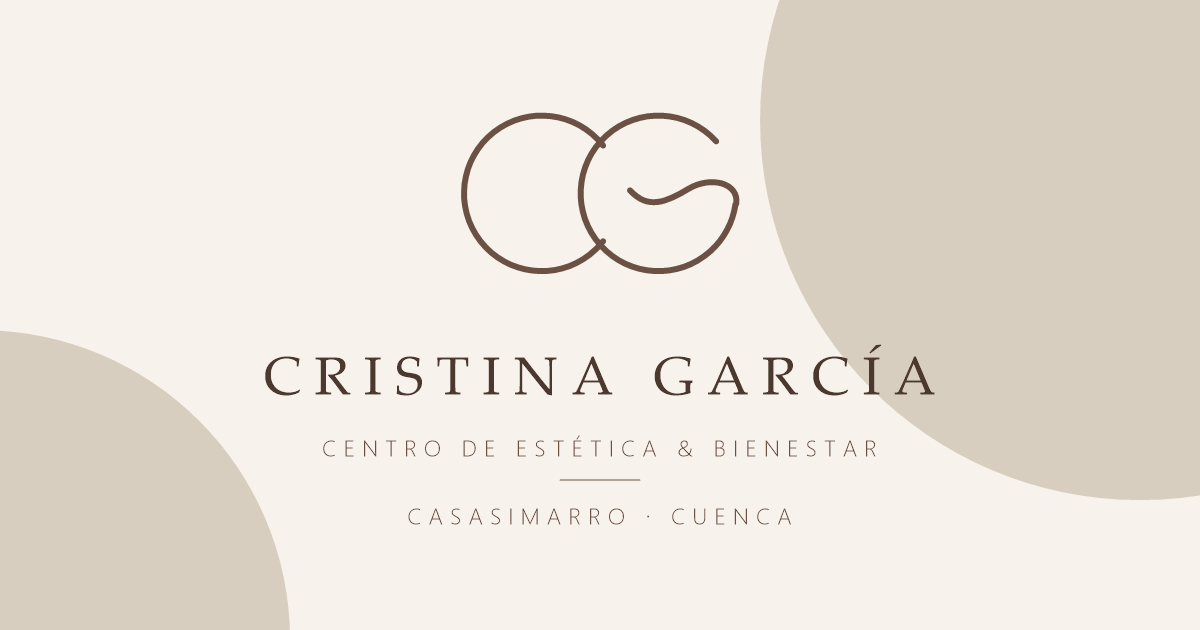
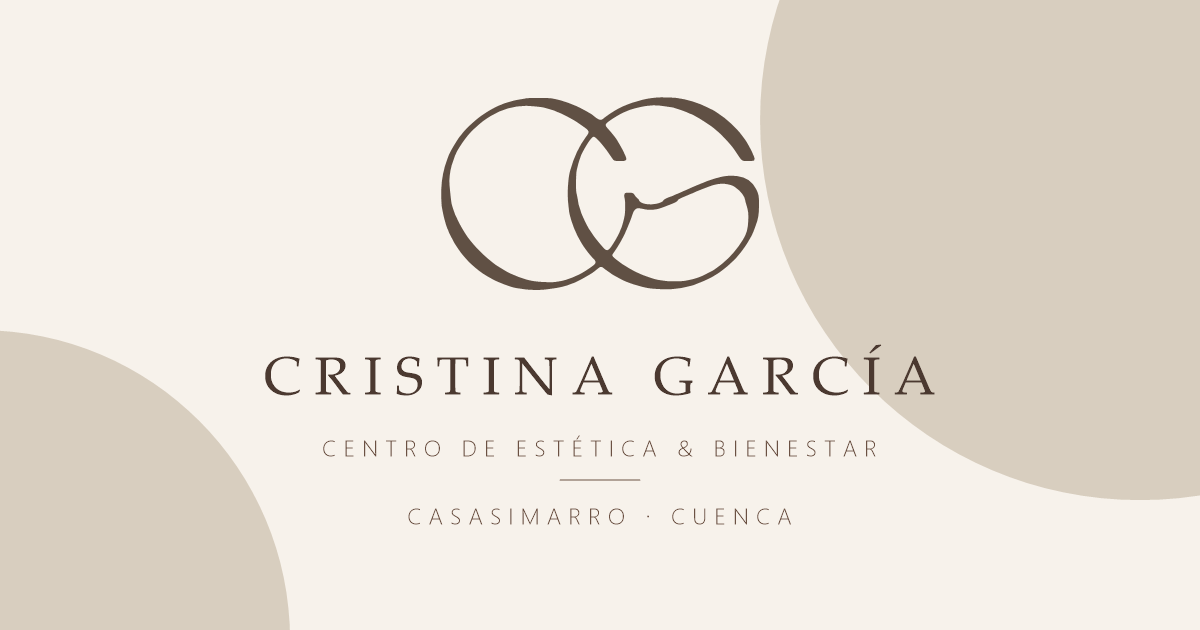
Cambia al logotipo oficial CG (serigrafía)
Sustituye el monograma redibujado por el oficial en todas las páginas,
el favicon, logo.svg (marrón) y logo-negro.svg, y regenera el icono del
móvil y la imagen para compartir.

Changed region(s): [[0.37, 0.1508, 0.6475, 0.4825]]

diff --git a/aviso-legal.html b/aviso-legal.html
@@ -16,7 +16,7 @@
   <header class="cabecera cabecera--simple">
     <div class="contenedor cabecera__fila">
       <a class="marca" href="index.html" aria-label="Cristina García, Centro de Estética y Bienestar: volver a la web">
-        <svg class="monograma" viewBox="0 0 214 130" aria-hidden="true"><path d="M109 33A52 52 0 1 0 109 97"/><path d="M184.6 30.2A52 52 0 1 0 197.5 72.2C199.5 58 181 53 166 62S139 76 127 63"/></svg>
+        <svg class="monograma" viewBox="205 391 1327 808" aria-hidden="true"><path fill-rule="evenodd" d="M579.5,1194.0C570.7,1193.5 560.4,1192.6 556.5,1192.0C552.6,1191.5 543.2,1190.1 535.5,1189.0C527.8,1187.9 519.0,1186.5 516.0,1185.9C494.6,1181.7 445.9,1163.2 422.5,1150.4C390.0,1132.7 371.6,1120.3 350.5,1102.1C326.1,1081.1 328.0,1083.0 301.7,1053.0C289.4,1038.9 267.2,1006.6 260.6,993.0C258.3,988.3 253.2,978.6 249.3,971.5C245.4,964.4 241.7,956.5 241.0,954.0C240.3,951.6 238.1,946.1 235.9,941.8C233.8,937.5 230.5,928.5 228.6,921.8C226.8,915.0 224.1,905.5 222.7,900.5C220.5,892.6 216.7,874.5 212.4,851.5C210.4,840.5 209.1,800.0 210.0,775.0C211.5,733.6 220.0,691.1 234.0,655.0C236.7,648.1 239.2,641.1 239.6,639.5C242.4,628.3 272.9,576.1 287.4,557.9C290.8,553.7 296.1,546.9 299.3,542.7C314.8,522.6 362.4,479.9 384.0,466.7C387.6,464.5 394.3,460.1 399.0,457.0C412.9,447.7 443.5,431.5 453.6,428.2C456.8,427.1 462.6,424.8 466.5,423.1C470.4,421.3 480.0,418.1 488.0,415.9C496.0,413.8 506.2,410.9 510.7,409.6C515.2,408.2 526.4,405.9 535.7,404.5C544.9,403.1 556.1,401.2 560.5,400.3C573.1,397.7 654.3,397.7 668.5,400.4C686.2,403.7 707.3,408.7 714.2,411.3C717.8,412.7 724.4,414.8 728.7,416.0C733.0,417.2 740.8,420.1 746.0,422.5C751.2,424.8 758.0,427.5 761.0,428.4C767.3,430.2 799.3,446.1 812.0,453.7C816.7,456.5 823.5,460.4 827.1,462.4C830.7,464.3 835.9,467.9 838.6,470.3C859.9,489.1 871.7,493.5 879.7,485.9C884.5,481.3 904.8,466.5 914.1,460.8C917.9,458.4 924.5,454.3 928.8,451.6C966.4,427.6 1034.6,404.3 1083.0,399.0C1088.2,398.5 1097.0,397.5 1102.5,396.9C1115.7,395.4 1168.2,396.4 1185.3,398.4C1228.5,403.7 1278.1,419.0 1316.3,438.8C1323.9,442.8 1330.7,446.0 1331.4,446.0C1332.1,446.0 1336.3,448.3 1340.6,451.1C1345.0,453.9 1352.4,458.8 1357.3,461.9C1393.4,485.1 1433.7,522.4 1456.7,554.0C1459.3,557.6 1463.5,563.0 1466.0,566.0C1470.3,571.3 1472.7,575.1 1483.6,594.0C1490.7,606.3 1498.9,622.3 1500.5,627.1C1501.4,629.4 1503.7,634.5 1505.7,638.4C1510.2,647.2 1510.7,653.7 1507.2,657.2C1505.0,659.4 1504.2,659.5 1485.2,659.8C1455.2,660.3 1458.0,662.0 1436.5,629.6C1428.1,616.9 1419.1,604.0 1416.4,600.9C1413.7,597.8 1409.3,592.6 1406.7,589.4C1396.0,576.6 1369.0,548.4 1361.4,542.1C1356.9,538.5 1349.5,532.1 1344.9,527.9C1332.5,516.6 1291.1,489.0 1268.0,476.6C1262.8,473.7 1257.3,470.7 1255.9,469.7C1254.5,468.8 1250.2,466.9 1246.4,465.6C1242.6,464.3 1237.6,462.3 1235.4,461.2C1227.3,457.1 1206.3,449.2 1191.0,444.5C1182.5,441.9 1174.7,439.4 1173.7,438.8C1172.7,438.3 1166.9,437.3 1160.7,436.5C1154.5,435.7 1144.1,434.2 1137.5,433.1C1101.2,426.9 1078.2,427.5 1038.0,435.6C1016.2,440.0 995.0,446.0 984.5,450.7C980.1,452.6 972.5,455.9 967.5,458.0C953.1,464.0 923.1,481.9 906.3,494.4C887.1,508.7 887.0,510.3 904.9,530.3C917.8,544.8 935.2,566.7 938.7,572.9C940.2,575.4 945.6,584.7 950.9,593.5C956.1,602.3 962.5,614.2 965.1,620.0C967.6,625.8 971.4,634.0 973.4,638.2C982.4,657.3 977.2,661.4 945.5,660.1C926.5,659.3 925.2,658.8 919.0,649.1C890.0,604.4 851.5,559.0 842.5,559.0C834.8,559.0 819.6,579.5 799.5,617.0C796.2,623.3 792.7,629.6 791.8,631.0C790.9,632.4 789.5,636.2 788.5,639.5C787.6,642.8 785.6,649.0 784.0,653.2C779.2,665.6 772.0,693.3 770.3,705.3C768.6,718.2 768.2,781.3 769.8,789.0C774.9,812.8 776.0,818.4 776.6,824.0C777.5,833.3 780.3,845.0 784.3,856.0C786.2,861.2 788.3,868.0 789.0,871.0C791.4,881.5 817.0,934.1 825.2,945.5C826.8,947.7 831.6,954.9 835.9,961.5C850.1,983.3 882.6,1022.1 891.7,1028.1C899.7,1033.4 908.8,1026.3 921.7,1004.5C923.4,1001.7 927.5,995.0 931.0,989.5C937.7,978.7 948.9,957.0 951.0,950.6C951.7,948.4 953.8,943.4 955.6,939.3C960.7,928.3 968.7,898.5 970.7,883.5C973.1,865.6 973.0,826.8 970.5,816.0C965.4,793.6 968.7,790.0 992.5,791.2C1004.4,791.8 1007.2,793.4 1012.6,802.3C1015.2,806.7 1018.8,810.9 1022.8,814.1C1027.4,817.8 1029.2,820.0 1030.1,823.1C1032.1,829.6 1042.2,835.1 1058.5,838.5C1083.7,843.7 1125.5,835.0 1131.2,823.3C1133.4,818.8 1145.8,812.5 1164.1,806.5C1167.1,805.5 1172.2,803.4 1175.4,801.8C1178.6,800.1 1185.3,797.3 1190.2,795.4C1195.1,793.5 1202.4,790.4 1206.3,788.4C1210.3,786.4 1216.4,783.7 1220.0,782.4C1223.6,781.0 1230.1,778.2 1234.5,776.0C1244.4,771.1 1275.0,758.1 1288.5,753.0C1294.0,751.0 1301.2,748.0 1304.5,746.5C1313.1,742.6 1343.4,732.4 1350.5,731.0C1353.8,730.4 1360.8,728.5 1366.0,726.9C1384.9,721.2 1414.0,719.4 1438.0,722.5C1474.3,727.1 1500.1,745.1 1516.0,777.0C1526.1,797.3 1527.4,804.8 1527.4,843.0C1527.4,881.2 1524.5,898.9 1513.5,928.5C1510.4,936.8 1506.2,948.0 1504.1,953.5C1502.1,959.0 1497.5,968.7 1493.8,975.0C1490.2,981.3 1485.3,989.9 1483.0,994.0C1468.4,1019.5 1435.6,1061.3 1418.6,1076.0C1415.8,1078.4 1409.0,1084.7 1403.5,1090.0C1392.9,1100.1 1366.8,1120.1 1353.5,1128.4C1349.1,1131.1 1342.8,1135.0 1339.5,1137.0C1328.2,1144.0 1301.5,1156.8 1285.5,1163.0C1276.7,1166.4 1266.1,1170.6 1262.0,1172.2C1257.9,1173.9 1251.8,1175.9 1248.5,1176.7C1245.2,1177.5 1237.8,1179.3 1232.0,1180.7C1206.6,1186.9 1204.8,1187.2 1166.0,1191.2C1147.0,1193.1 1098.3,1191.2 1071.5,1187.5C1037.7,1182.7 974.1,1162.3 954.4,1149.8C952.2,1148.4 946.6,1145.3 941.9,1143.0C931.4,1137.8 916.7,1128.9 908.7,1122.9C905.3,1120.4 899.1,1116.1 895.0,1113.3C890.8,1110.5 886.8,1107.4 886.0,1106.5C882.7,1102.5 876.7,1099.0 873.1,1099.0C867.5,1099.0 867.3,1099.1 844.0,1118.4C830.0,1129.9 769.9,1163.1 757.0,1166.5C753.8,1167.3 747.7,1169.6 743.4,1171.6C730.1,1177.7 696.2,1186.0 674.7,1188.5C667.4,1189.4 655.4,1191.0 648.0,1192.1C632.1,1194.5 603.6,1195.3 579.5,1194.0ZM687.0,1161.0C689.5,1160.5 696.1,1159.4 701.6,1158.5C730.5,1154.0 776.5,1135.7 804.2,1117.8C848.6,1089.1 853.3,1084.4 848.0,1073.6C846.8,1071.0 845.0,1068.5 844.0,1068.0C842.0,1066.9 825.6,1048.5 820.0,1041.0C818.1,1038.4 813.1,1031.9 809.0,1026.6C785.4,995.8 760.7,946.5 749.5,907.5C742.7,884.1 740.8,876.0 739.9,867.7C739.4,862.7 738.3,853.6 737.5,847.5C733.4,817.9 733.2,775.5 737.0,743.5C740.2,715.7 740.4,714.6 745.4,696.2C759.4,644.5 781.2,598.2 809.2,560.8C826.6,537.4 826.2,536.1 794.4,514.0C787.7,509.3 778.5,502.8 773.9,499.6C760.8,490.1 711.2,464.0 696.0,458.6C691.9,457.1 687.1,455.1 685.4,454.1C680.2,451.0 645.6,440.5 630.8,437.5C619.9,435.3 574.1,431.0 561.5,431.0C510.3,431.1 459.6,445.8 415.0,473.4C384.5,492.4 381.2,494.9 345.6,526.9C330.3,540.7 312.0,562.5 297.0,585.0C293.5,590.2 288.5,597.6 286.0,601.5C257.7,643.8 240.0,709.8 244.0,758.3C247.3,798.2 251.2,831.9 253.3,839.5C257.5,854.2 265.7,878.3 268.5,884.0C270.3,887.6 273.8,895.2 276.3,901.0C281.5,912.9 292.7,933.7 301.9,948.5C305.3,954.0 309.6,960.9 311.3,963.7C330.2,994.7 378.5,1046.3 416.0,1075.4C422.9,1080.7 431.0,1087.0 434.0,1089.3C437.0,1091.7 444.0,1096.3 449.5,1099.5C455.0,1102.7 463.8,1108.0 469.0,1111.3C501.6,1132.0 557.0,1152.8 593.7,1158.1C623.6,1162.4 671.9,1163.9 687.0,1161.0ZM1233.8,1154.2C1267.0,1147.4 1283.1,1141.7 1310.2,1127.4C1321.0,1121.7 1330.3,1117.0 1330.7,1117.0C1333.2,1117.0 1363.9,1095.1 1377.6,1083.5C1411.3,1055.3 1437.8,1024.2 1462.0,984.6C1475.9,961.8 1480.9,943.7 1483.0,908.7C1484.7,881.3 1482.8,865.3 1475.1,841.5C1472.9,834.9 1470.9,826.8 1470.5,823.5C1468.6,806.5 1452.5,785.0 1430.7,770.2C1417.7,761.3 1416.3,760.7 1400.1,757.0C1379.4,752.2 1362.0,753.1 1336.5,760.2C1325.8,763.2 1270.6,784.6 1260.9,789.6C1258.2,790.9 1253.2,793.1 1249.8,794.4C1246.3,795.7 1239.9,798.4 1235.5,800.3C1231.1,802.2 1221.9,806.2 1215.0,809.0C1195.6,817.1 1193.5,818.4 1190.8,823.2C1188.0,828.4 1177.6,833.9 1156.5,841.5C1149.3,844.1 1142.4,846.8 1141.0,847.5C1135.2,850.4 1110.0,858.8 1104.0,859.8C1080.2,863.8 1065.5,863.5 1045.5,858.5C1019.4,852.0 1011.3,856.7 1002.2,883.5C994.8,905.2 990.2,917.3 983.5,932.5C979.8,940.8 975.5,950.9 973.8,955.0C965.7,975.7 940.3,1019.6 925.1,1039.5C915.2,1052.4 915.7,1053.3 942.9,1074.4C949.1,1079.2 958.8,1086.0 964.4,1089.5C969.9,1093.0 978.5,1098.5 983.5,1101.6C992.7,1107.5 1016.7,1120.5 1023.0,1122.9C1024.9,1123.7 1031.4,1126.5 1037.4,1129.2C1047.7,1133.9 1066.1,1140.4 1091.0,1148.4C1101.8,1151.8 1107.8,1152.9 1134.0,1156.5C1150.4,1158.8 1150.8,1158.8 1183.0,1158.5C1213.5,1158.3 1213.5,1158.3 1233.8,1154.2Z"/></svg>
         <span class="marca__texto">
           <span class="marca__nombre">Cristina García</span>
           <span class="marca__sub">Centro de Estética &amp; Bienestar</span>

diff --git a/cookies.html b/cookies.html
@@ -16,7 +16,7 @@
   <header class="cabecera cabecera--simple">
     <div class="contenedor cabecera__fila">
       <a class="marca" href="index.html" aria-label="Cristina García, Centro de Estética y Bienestar: volver a la web">
-        <svg class="monograma" viewBox="0 0 214 130" aria-hidden="true"><path d="M109 33A52 52 0 1 0 109 97"/><path d="M184.6 30.2A52 52 0 1 0 197.5 72.2C199.5 58 181 53 166 62S139 76 127 63"/></svg>
+        <svg class="monograma" viewBox="205 391 1327 808" aria-hidden="true"><path fill-rule="evenodd" d="M579.5,1194.0C570.7,1193.5 560.4,1192.6 556.5,1192.0C552.6,1191.5 543.2,1190.1 535.5,1189.0C527.8,1187.9 519.0,1186.5 516.0,1185.9C494.6,1181.7 445.9,1163.2 422.5,1150.4C390.0,1132.7 371.6,1120.3 350.5,1102.1C326.1,1081.1 328.0,1083.0 301.7,1053.0C289.4,1038.9 267.2,1006.6 260.6,993.0C258.3,988.3 253.2,978.6 249.3,971.5C245.4,964.4 241.7,956.5 241.0,954.0C240.3,951.6 238.1,946.1 235.9,941.8C233.8,937.5 230.5,928.5 228.6,921.8C226.8,915.0 224.1,905.5 222.7,900.5C220.5,892.6 216.7,874.5 212.4,851.5C210.4,840.5 209.1,800.0 210.0,775.0C211.5,733.6 220.0,691.1 234.0,655.0C236.7,648.1 239.2,641.1 239.6,639.5C242.4,628.3 272.9,576.1 287.4,557.9C290.8,553.7 296.1,546.9 299.3,542.7C314.8,522.6 362.4,479.9 384.0,466.7C387.6,464.5 394.3,460.1 399.0,457.0C412.9,447.7 443.5,431.5 453.6,428.2C456.8,427.1 462.6,424.8 466.5,423.1C470.4,421.3 480.0,418.1 488.0,415.9C496.0,413.8 506.2,410.9 510.7,409.6C515.2,408.2 526.4,405.9 535.7,404.5C544.9,403.1 556.1,401.2 560.5,400.3C573.1,397.7 654.3,397.7 668.5,400.4C686.2,403.7 707.3,408.7 714.2,411.3C717.8,412.7 724.4,414.8 728.7,416.0C733.0,417.2 740.8,420.1 746.0,422.5C751.2,424.8 758.0,427.5 761.0,428.4C767.3,430.2 799.3,446.1 812.0,453.7C816.7,456.5 823.5,460.4 827.1,462.4C830.7,464.3 835.9,467.9 838.6,470.3C859.9,489.1 871.7,493.5 879.7,485.9C884.5,481.3 904.8,466.5 914.1,460.8C917.9,458.4 924.5,454.3 928.8,451.6C966.4,427.6 1034.6,404.3 1083.0,399.0C1088.2,398.5 1097.0,397.5 1102.5,396.9C1115.7,395.4 1168.2,396.4 1185.3,398.4C1228.5,403.7 1278.1,419.0 1316.3,438.8C1323.9,442.8 1330.7,446.0 1331.4,446.0C1332.1,446.0 1336.3,448.3 1340.6,451.1C1345.0,453.9 1352.4,458.8 1357.3,461.9C1393.4,485.1 1433.7,522.4 1456.7,554.0C1459.3,557.6 1463.5,563.0 1466.0,566.0C1470.3,571.3 1472.7,575.1 1483.6,594.0C1490.7,606.3 1498.9,622.3 1500.5,627.1C1501.4,629.4 1503.7,634.5 1505.7,638.4C1510.2,647.2 1510.7,653.7 1507.2,657.2C1505.0,659.4 1504.2,659.5 1485.2,659.8C1455.2,660.3 1458.0,662.0 1436.5,629.6C1428.1,616.9 1419.1,604.0 1416.4,600.9C1413.7,597.8 1409.3,592.6 1406.7,589.4C1396.0,576.6 1369.0,548.4 1361.4,542.1C1356.9,538.5 1349.5,532.1 1344.9,527.9C1332.5,516.6 1291.1,489.0 1268.0,476.6C1262.8,473.7 1257.3,470.7 1255.9,469.7C1254.5,468.8 1250.2,466.9 1246.4,465.6C1242.6,464.3 1237.6,462.3 1235.4,461.2C1227.3,457.1 1206.3,449.2 1191.0,444.5C1182.5,441.9 1174.7,439.4 1173.7,438.8C1172.7,438.3 1166.9,437.3 1160.7,436.5C1154.5,435.7 1144.1,434.2 1137.5,433.1C1101.2,426.9 1078.2,427.5 1038.0,435.6C1016.2,440.0 995.0,446.0 984.5,450.7C980.1,452.6 972.5,455.9 967.5,458.0C953.1,464.0 923.1,481.9 906.3,494.4C887.1,508.7 887.0,510.3 904.9,530.3C917.8,544.8 935.2,566.7 938.7,572.9C940.2,575.4 945.6,584.7 950.9,593.5C956.1,602.3 962.5,614.2 965.1,620.0C967.6,625.8 971.4,634.0 973.4,638.2C982.4,657.3 977.2,661.4 945.5,660.1C926.5,659.3 925.2,658.8 919.0,649.1C890.0,604.4 851.5,559.0 842.5,559.0C834.8,559.0 819.6,579.5 799.5,617.0C796.2,623.3 792.7,629.6 791.8,631.0C790.9,632.4 789.5,636.2 788.5,639.5C787.6,642.8 785.6,649.0 784.0,653.2C779.2,665.6 772.0,693.3 770.3,705.3C768.6,718.2 768.2,781.3 769.8,789.0C774.9,812.8 776.0,818.4 776.6,824.0C777.5,833.3 780.3,845.0 784.3,856.0C786.2,861.2 788.3,868.0 789.0,871.0C791.4,881.5 817.0,934.1 825.2,945.5C826.8,947.7 831.6,954.9 835.9,961.5C850.1,983.3 882.6,1022.1 891.7,1028.1C899.7,1033.4 908.8,1026.3 921.7,1004.5C923.4,1001.7 927.5,995.0 931.0,989.5C937.7,978.7 948.9,957.0 951.0,950.6C951.7,948.4 953.8,943.4 955.6,939.3C960.7,928.3 968.7,898.5 970.7,883.5C973.1,865.6 973.0,826.8 970.5,816.0C965.4,793.6 968.7,790.0 992.5,791.2C1004.4,791.8 1007.2,793.4 1012.6,802.3C1015.2,806.7 1018.8,810.9 1022.8,814.1C1027.4,817.8 1029.2,820.0 1030.1,823.1C1032.1,829.6 1042.2,835.1 1058.5,838.5C1083.7,843.7 1125.5,835.0 1131.2,823.3C1133.4,818.8 1145.8,812.5 1164.1,806.5C1167.1,805.5 1172.2,803.4 1175.4,801.8C1178.6,800.1 1185.3,797.3 1190.2,795.4C1195.1,793.5 1202.4,790.4 1206.3,788.4C1210.3,786.4 1216.4,783.7 1220.0,782.4C1223.6,781.0 1230.1,778.2 1234.5,776.0C1244.4,771.1 1275.0,758.1 1288.5,753.0C1294.0,751.0 1301.2,748.0 1304.5,746.5C1313.1,742.6 1343.4,732.4 1350.5,731.0C1353.8,730.4 1360.8,728.5 1366.0,726.9C1384.9,721.2 1414.0,719.4 1438.0,722.5C1474.3,727.1 1500.1,745.1 1516.0,777.0C1526.1,797.3 1527.4,804.8 1527.4,843.0C1527.4,881.2 1524.5,898.9 1513.5,928.5C1510.4,936.8 1506.2,948.0 1504.1,953.5C1502.1,959.0 1497.5,968.7 1493.8,975.0C1490.2,981.3 1485.3,989.9 1483.0,994.0C1468.4,1019.5 1435.6,1061.3 1418.6,1076.0C1415.8,1078.4 1409.0,1084.7 1403.5,1090.0C1392.9,1100.1 1366.8,1120.1 1353.5,1128.4C1349.1,1131.1 1342.8,1135.0 1339.5,1137.0C1328.2,1144.0 1301.5,1156.8 1285.5,1163.0C1276.7,1166.4 1266.1,1170.6 1262.0,1172.2C1257.9,1173.9 1251.8,1175.9 1248.5,1176.7C1245.2,1177.5 1237.8,1179.3 1232.0,1180.7C1206.6,1186.9 1204.8,1187.2 1166.0,1191.2C1147.0,1193.1 1098.3,1191.2 1071.5,1187.5C1037.7,1182.7 974.1,1162.3 954.4,1149.8C952.2,1148.4 946.6,1145.3 941.9,1143.0C931.4,1137.8 916.7,1128.9 908.7,1122.9C905.3,1120.4 899.1,1116.1 895.0,1113.3C890.8,1110.5 886.8,1107.4 886.0,1106.5C882.7,1102.5 876.7,1099.0 873.1,1099.0C867.5,1099.0 867.3,1099.1 844.0,1118.4C830.0,1129.9 769.9,1163.1 757.0,1166.5C753.8,1167.3 747.7,1169.6 743.4,1171.6C730.1,1177.7 696.2,1186.0 674.7,1188.5C667.4,1189.4 655.4,1191.0 648.0,1192.1C632.1,1194.5 603.6,1195.3 579.5,1194.0ZM687.0,1161.0C689.5,1160.5 696.1,1159.4 701.6,1158.5C730.5,1154.0 776.5,1135.7 804.2,1117.8C848.6,1089.1 853.3,1084.4 848.0,1073.6C846.8,1071.0 845.0,1068.5 844.0,1068.0C842.0,1066.9 825.6,1048.5 820.0,1041.0C818.1,1038.4 813.1,1031.9 809.0,1026.6C785.4,995.8 760.7,946.5 749.5,907.5C742.7,884.1 740.8,876.0 739.9,867.7C739.4,862.7 738.3,853.6 737.5,847.5C733.4,817.9 733.2,775.5 737.0,743.5C740.2,715.7 740.4,714.6 745.4,696.2C759.4,644.5 781.2,598.2 809.2,560.8C826.6,537.4 826.2,536.1 794.4,514.0C787.7,509.3 778.5,502.8 773.9,499.6C760.8,490.1 711.2,464.0 696.0,458.6C691.9,457.1 687.1,455.1 685.4,454.1C680.2,451.0 645.6,440.5 630.8,437.5C619.9,435.3 574.1,431.0 561.5,431.0C510.3,431.1 459.6,445.8 415.0,473.4C384.5,492.4 381.2,494.9 345.6,526.9C330.3,540.7 312.0,562.5 297.0,585.0C293.5,590.2 288.5,597.6 286.0,601.5C257.7,643.8 240.0,709.8 244.0,758.3C247.3,798.2 251.2,831.9 253.3,839.5C257.5,854.2 265.7,878.3 268.5,884.0C270.3,887.6 273.8,895.2 276.3,901.0C281.5,912.9 292.7,933.7 301.9,948.5C305.3,954.0 309.6,960.9 311.3,963.7C330.2,994.7 378.5,1046.3 416.0,1075.4C422.9,1080.7 431.0,1087.0 434.0,1089.3C437.0,1091.7 444.0,1096.3 449.5,1099.5C455.0,1102.7 463.8,1108.0 469.0,1111.3C501.6,1132.0 557.0,1152.8 593.7,1158.1C623.6,1162.4 671.9,1163.9 687.0,1161.0ZM1233.8,1154.2C1267.0,1147.4 1283.1,1141.7 1310.2,1127.4C1321.0,1121.7 1330.3,1117.0 1330.7,1117.0C1333.2,1117.0 1363.9,1095.1 1377.6,1083.5C1411.3,1055.3 1437.8,1024.2 1462.0,984.6C1475.9,961.8 1480.9,943.7 1483.0,908.7C1484.7,881.3 1482.8,865.3 1475.1,841.5C1472.9,834.9 1470.9,826.8 1470.5,823.5C1468.6,806.5 1452.5,785.0 1430.7,770.2C1417.7,761.3 1416.3,760.7 1400.1,757.0C1379.4,752.2 1362.0,753.1 1336.5,760.2C1325.8,763.2 1270.6,784.6 1260.9,789.6C1258.2,790.9 1253.2,793.1 1249.8,794.4C1246.3,795.7 1239.9,798.4 1235.5,800.3C1231.1,802.2 1221.9,806.2 1215.0,809.0C1195.6,817.1 1193.5,818.4 1190.8,823.2C1188.0,828.4 1177.6,833.9 1156.5,841.5C1149.3,844.1 1142.4,846.8 1141.0,847.5C1135.2,850.4 1110.0,858.8 1104.0,859.8C1080.2,863.8 1065.5,863.5 1045.5,858.5C1019.4,852.0 1011.3,856.7 1002.2,883.5C994.8,905.2 990.2,917.3 983.5,932.5C979.8,940.8 975.5,950.9 973.8,955.0C965.7,975.7 940.3,1019.6 925.1,1039.5C915.2,1052.4 915.7,1053.3 942.9,1074.4C949.1,1079.2 958.8,1086.0 964.4,1089.5C969.9,1093.0 978.5,1098.5 983.5,1101.6C992.7,1107.5 1016.7,1120.5 1023.0,1122.9C1024.9,1123.7 1031.4,1126.5 1037.4,1129.2C1047.7,1133.9 1066.1,1140.4 1091.0,1148.4C1101.8,1151.8 1107.8,1152.9 1134.0,1156.5C1150.4,1158.8 1150.8,1158.8 1183.0,1158.5C1213.5,1158.3 1213.5,1158.3 1233.8,1154.2Z"/></svg>
         <span class="marca__texto">
           <span class="marca__nombre">Cristina García</span>
           <span class="marca__sub">Centro de Estética &amp; Bienestar</span>

diff --git a/privacidad.html b/privacidad.html
@@ -16,7 +16,7 @@
   <header class="cabecera cabecera--simple">
     <div class="contenedor cabecera__fila">
       <a class="marca" href="index.html" aria-label="Cristina García, Centro de Estética y Bienestar: volver a la web">
-        <svg class="monograma" viewBox="0 0 214 130" aria-hidden="true"><path d="M109 33A52 52 0 1 0 109 97"/><path d="M184.6 30.2A52 52 0 1 0 197.5 72.2C199.5 58 181 53 166 62S139 76 127 63"/></svg>
+        <svg class="monograma" viewBox="205 391 1327 808" aria-hidden="true"><path fill-rule="evenodd" d="M579.5,1194.0C570.7,1193.5 560.4,1192.6 556.5,1192.0C552.6,1191.5 543.2,1190.1 535.5,1189.0C527.8,1187.9 519.0,1186.5 516.0,1185.9C494.6,1181.7 445.9,1163.2 422.5,1150.4C390.0,1132.7 371.6,1120.3 350.5,1102.1C326.1,1081.1 328.0,1083.0 301.7,1053.0C289.4,1038.9 267.2,1006.6 260.6,993.0C258.3,988.3 253.2,978.6 249.3,971.5C245.4,964.4 241.7,956.5 241.0,954.0C240.3,951.6 238.1,946.1 235.9,941.8C233.8,937.5 230.5,928.5 228.6,921.8C226.8,915.0 224.1,905.5 222.7,900.5C220.5,892.6 216.7,874.5 212.4,851.5C210.4,840.5 209.1,800.0 210.0,775.0C211.5,733.6 220.0,691.1 234.0,655.0C236.7,648.1 239.2,641.1 239.6,639.5C242.4,628.3 272.9,576.1 287.4,557.9C290.8,553.7 296.1,546.9 299.3,542.7C314.8,522.6 362.4,479.9 384.0,466.7C387.6,464.5 394.3,460.1 399.0,457.0C412.9,447.7 443.5,431.5 453.6,428.2C456.8,427.1 462.6,424.8 466.5,423.1C470.4,421.3 480.0,418.1 488.0,415.9C496.0,413.8 506.2,410.9 510.7,409.6C515.2,408.2 526.4,405.9 535.7,404.5C544.9,403.1 556.1,401.2 560.5,400.3C573.1,397.7 654.3,397.7 668.5,400.4C686.2,403.7 707.3,408.7 714.2,411.3C717.8,412.7 724.4,414.8 728.7,416.0C733.0,417.2 740.8,420.1 746.0,422.5C751.2,424.8 758.0,427.5 761.0,428.4C767.3,430.2 799.3,446.1 812.0,453.7C816.7,456.5 823.5,460.4 827.1,462.4C830.7,464.3 835.9,467.9 838.6,470.3C859.9,489.1 871.7,493.5 879.7,485.9C884.5,481.3 904.8,466.5 914.1,460.8C917.9,458.4 924.5,454.3 928.8,451.6C966.4,427.6 1034.6,404.3 1083.0,399.0C1088.2,398.5 1097.0,397.5 1102.5,396.9C1115.7,395.4 1168.2,396.4 1185.3,398.4C1228.5,403.7 1278.1,419.0 1316.3,438.8C1323.9,442.8 1330.7,446.0 1331.4,446.0C1332.1,446.0 1336.3,448.3 1340.6,451.1C1345.0,453.9 1352.4,458.8 1357.3,461.9C1393.4,485.1 1433.7,522.4 1456.7,554.0C1459.3,557.6 1463.5,563.0 1466.0,566.0C1470.3,571.3 1472.7,575.1 1483.6,594.0C1490.7,606.3 1498.9,622.3 1500.5,627.1C1501.4,629.4 1503.7,634.5 1505.7,638.4C1510.2,647.2 1510.7,653.7 1507.2,657.2C1505.0,659.4 1504.2,659.5 1485.2,659.8C1455.2,660.3 1458.0,662.0 1436.5,629.6C1428.1,616.9 1419.1,604.0 1416.4,600.9C1413.7,597.8 1409.3,592.6 1406.7,589.4C1396.0,576.6 1369.0,548.4 1361.4,542.1C1356.9,538.5 1349.5,532.1 1344.9,527.9C1332.5,516.6 1291.1,489.0 1268.0,476.6C1262.8,473.7 1257.3,470.7 1255.9,469.7C1254.5,468.8 1250.2,466.9 1246.4,465.6C1242.6,464.3 1237.6,462.3 1235.4,461.2C1227.3,457.1 1206.3,449.2 1191.0,444.5C1182.5,441.9 1174.7,439.4 1173.7,438.8C1172.7,438.3 1166.9,437.3 1160.7,436.5C1154.5,435.7 1144.1,434.2 1137.5,433.1C1101.2,426.9 1078.2,427.5 1038.0,435.6C1016.2,440.0 995.0,446.0 984.5,450.7C980.1,452.6 972.5,455.9 967.5,458.0C953.1,464.0 923.1,481.9 906.3,494.4C887.1,508.7 887.0,510.3 904.9,530.3C917.8,544.8 935.2,566.7 938.7,572.9C940.2,575.4 945.6,584.7 950.9,593.5C956.1,602.3 962.5,614.2 965.1,620.0C967.6,625.8 971.4,634.0 973.4,638.2C982.4,657.3 977.2,661.4 945.5,660.1C926.5,659.3 925.2,658.8 919.0,649.1C890.0,604.4 851.5,559.0 842.5,559.0C834.8,559.0 819.6,579.5 799.5,617.0C796.2,623.3 792.7,629.6 791.8,631.0C790.9,632.4 789.5,636.2 788.5,639.5C787.6,642.8 785.6,649.0 784.0,653.2C779.2,665.6 772.0,693.3 770.3,705.3C768.6,718.2 768.2,781.3 769.8,789.0C774.9,812.8 776.0,818.4 776.6,824.0C777.5,833.3 780.3,845.0 784.3,856.0C786.2,861.2 788.3,868.0 789.0,871.0C791.4,881.5 817.0,934.1 825.2,945.5C826.8,947.7 831.6,954.9 835.9,961.5C850.1,983.3 882.6,1022.1 891.7,1028.1C899.7,1033.4 908.8,1026.3 921.7,1004.5C923.4,1001.7 927.5,995.0 931.0,989.5C937.7,978.7 948.9,957.0 951.0,950.6C951.7,948.4 953.8,943.4 955.6,939.3C960.7,928.3 968.7,898.5 970.7,883.5C973.1,865.6 973.0,826.8 970.5,816.0C965.4,793.6 968.7,790.0 992.5,791.2C1004.4,791.8 1007.2,793.4 1012.6,802.3C1015.2,806.7 1018.8,810.9 1022.8,814.1C1027.4,817.8 1029.2,820.0 1030.1,823.1C1032.1,829.6 1042.2,835.1 1058.5,838.5C1083.7,843.7 1125.5,835.0 1131.2,823.3C1133.4,818.8 1145.8,812.5 1164.1,806.5C1167.1,805.5 1172.2,803.4 1175.4,801.8C1178.6,800.1 1185.3,797.3 1190.2,795.4C1195.1,793.5 1202.4,790.4 1206.3,788.4C1210.3,786.4 1216.4,783.7 1220.0,782.4C1223.6,781.0 1230.1,778.2 1234.5,776.0C1244.4,771.1 1275.0,758.1 1288.5,753.0C1294.0,751.0 1301.2,748.0 1304.5,746.5C1313.1,742.6 1343.4,732.4 1350.5,731.0C1353.8,730.4 1360.8,728.5 1366.0,726.9C1384.9,721.2 1414.0,719.4 1438.0,722.5C1474.3,727.1 1500.1,745.1 1516.0,777.0C1526.1,797.3 1527.4,804.8 1527.4,843.0C1527.4,881.2 1524.5,898.9 1513.5,928.5C1510.4,936.8 1506.2,948.0 1504.1,953.5C1502.1,959.0 1497.5,968.7 1493.8,975.0C1490.2,981.3 1485.3,989.9 1483.0,994.0C1468.4,1019.5 1435.6,1061.3 1418.6,1076.0C1415.8,1078.4 1409.0,1084.7 1403.5,1090.0C1392.9,1100.1 1366.8,1120.1 1353.5,1128.4C1349.1,1131.1 1342.8,1135.0 1339.5,1137.0C1328.2,1144.0 1301.5,1156.8 1285.5,1163.0C1276.7,1166.4 1266.1,1170.6 1262.0,1172.2C1257.9,1173.9 1251.8,1175.9 1248.5,1176.7C1245.2,1177.5 1237.8,1179.3 1232.0,1180.7C1206.6,1186.9 1204.8,1187.2 1166.0,1191.2C1147.0,1193.1 1098.3,1191.2 1071.5,1187.5C1037.7,1182.7 974.1,1162.3 954.4,1149.8C952.2,1148.4 946.6,1145.3 941.9,1143.0C931.4,1137.8 916.7,1128.9 908.7,1122.9C905.3,1120.4 899.1,1116.1 895.0,1113.3C890.8,1110.5 886.8,1107.4 886.0,1106.5C882.7,1102.5 876.7,1099.0 873.1,1099.0C867.5,1099.0 867.3,1099.1 844.0,1118.4C830.0,1129.9 769.9,1163.1 757.0,1166.5C753.8,1167.3 747.7,1169.6 743.4,1171.6C730.1,1177.7 696.2,1186.0 674.7,1188.5C667.4,1189.4 655.4,1191.0 648.0,1192.1C632.1,1194.5 603.6,1195.3 579.5,1194.0ZM687.0,1161.0C689.5,1160.5 696.1,1159.4 701.6,1158.5C730.5,1154.0 776.5,1135.7 804.2,1117.8C848.6,1089.1 853.3,1084.4 848.0,1073.6C846.8,1071.0 845.0,1068.5 844.0,1068.0C842.0,1066.9 825.6,1048.5 820.0,1041.0C818.1,1038.4 813.1,1031.9 809.0,1026.6C785.4,995.8 760.7,946.5 749.5,907.5C742.7,884.1 740.8,876.0 739.9,867.7C739.4,862.7 738.3,853.6 737.5,847.5C733.4,817.9 733.2,775.5 737.0,743.5C740.2,715.7 740.4,714.6 745.4,696.2C759.4,644.5 781.2,598.2 809.2,560.8C826.6,537.4 826.2,536.1 794.4,514.0C787.7,509.3 778.5,502.8 773.9,499.6C760.8,490.1 711.2,464.0 696.0,458.6C691.9,457.1 687.1,455.1 685.4,454.1C680.2,451.0 645.6,440.5 630.8,437.5C619.9,435.3 574.1,431.0 561.5,431.0C510.3,431.1 459.6,445.8 415.0,473.4C384.5,492.4 381.2,494.9 345.6,526.9C330.3,540.7 312.0,562.5 297.0,585.0C293.5,590.2 288.5,597.6 286.0,601.5C257.7,643.8 240.0,709.8 244.0,758.3C247.3,798.2 251.2,831.9 253.3,839.5C257.5,854.2 265.7,878.3 268.5,884.0C270.3,887.6 273.8,895.2 276.3,901.0C281.5,912.9 292.7,933.7 301.9,948.5C305.3,954.0 309.6,960.9 311.3,963.7C330.2,994.7 378.5,1046.3 416.0,1075.4C422.9,1080.7 431.0,1087.0 434.0,1089.3C437.0,1091.7 444.0,1096.3 449.5,1099.5C455.0,1102.7 463.8,1108.0 469.0,1111.3C501.6,1132.0 557.0,1152.8 593.7,1158.1C623.6,1162.4 671.9,1163.9 687.0,1161.0ZM1233.8,1154.2C1267.0,1147.4 1283.1,1141.7 1310.2,1127.4C1321.0,1121.7 1330.3,1117.0 1330.7,1117.0C1333.2,1117.0 1363.9,1095.1 1377.6,1083.5C1411.3,1055.3 1437.8,1024.2 1462.0,984.6C1475.9,961.8 1480.9,943.7 1483.0,908.7C1484.7,881.3 1482.8,865.3 1475.1,841.5C1472.9,834.9 1470.9,826.8 1470.5,823.5C1468.6,806.5 1452.5,785.0 1430.7,770.2C1417.7,761.3 1416.3,760.7 1400.1,757.0C1379.4,752.2 1362.0,753.1 1336.5,760.2C1325.8,763.2 1270.6,784.6 1260.9,789.6C1258.2,790.9 1253.2,793.1 1249.8,794.4C1246.3,795.7 1239.9,798.4 1235.5,800.3C1231.1,802.2 1221.9,806.2 1215.0,809.0C1195.6,817.1 1193.5,818.4 1190.8,823.2C1188.0,828.4 1177.6,833.9 1156.5,841.5C1149.3,844.1 1142.4,846.8 1141.0,847.5C1135.2,850.4 1110.0,858.8 1104.0,859.8C1080.2,863.8 1065.5,863.5 1045.5,858.5C1019.4,852.0 1011.3,856.7 1002.2,883.5C994.8,905.2 990.2,917.3 983.5,932.5C979.8,940.8 975.5,950.9 973.8,955.0C965.7,975.7 940.3,1019.6 925.1,1039.5C915.2,1052.4 915.7,1053.3 942.9,1074.4C949.1,1079.2 958.8,1086.0 964.4,1089.5C969.9,1093.0 978.5,1098.5 983.5,1101.6C992.7,1107.5 1016.7,1120.5 1023.0,1122.9C1024.9,1123.7 1031.4,1126.5 1037.4,1129.2C1047.7,1133.9 1066.1,1140.4 1091.0,1148.4C1101.8,1151.8 1107.8,1152.9 1134.0,1156.5C1150.4,1158.8 1150.8,1158.8 1183.0,1158.5C1213.5,1158.3 1213.5,1158.3 1233.8,1154.2Z"/></svg>
         <span class="marca__texto">
           <span class="marca__nombre">Cristina García</span>
           <span class="marca__sub">Centro de Estética &amp; Bienestar</span>

diff --git a/index.html b/index.html
@@ -60,10 +60,7 @@
   <!-- Símbolos SVG reutilizables -->
   <svg width="0" height="0" style="position:absolute" aria-hidden="true" focusable="false">
     <defs>
-      <symbol id="monograma" viewBox="0 0 214 130">
-        <path d="M109 33A52 52 0 1 0 109 97"/>
-        <path d="M184.6 30.2A52 52 0 1 0 197.5 72.2C199.5 58 181 53 166 62S139 76 127 63"/>
-      </symbol>
+      <symbol id="monograma" viewBox="205 391 1327 808"><path fill-rule="evenodd" d="M579.5,1194.0C570.7,1193.5 560.4,1192.6 556.5,1192.0C552.6,1191.5 543.2,1190.1 535.5,1189.0C527.8,1187.9 519.0,1186.5 516.0,1185.9C494.6,1181.7 445.9,1163.2 422.5,1150.4C390.0,1132.7 371.6,1120.3 350.5,1102.1C326.1,1081.1 328.0,1083.0 301.7,1053.0C289.4,1038.9 267.2,1006.6 260.6,993.0C258.3,988.3 253.2,978.6 249.3,971.5C245.4,964.4 241.7,956.5 241.0,954.0C240.3,951.6 238.1,946.1 235.9,941.8C233.8,937.5 230.5,928.5 228.6,921.8C226.8,915.0 224.1,905.5 222.7,900.5C220.5,892.6 216.7,874.5 212.4,851.5C210.4,840.5 209.1,800.0 210.0,775.0C211.5,733.6 220.0,691.1 234.0,655.0C236.7,648.1 239.2,641.1 239.6,639.5C242.4,628.3 272.9,576.1 287.4,557.9C290.8,553.7 296.1,546.9 299.3,542.7C314.8,522.6 362.4,479.9 384.0,466.7C387.6,464.5 394.3,460.1 399.0,457.0C412.9,447.7 443.5,431.5 453.6,428.2C456.8,427.1 462.6,424.8 466.5,423.1C470.4,421.3 480.0,418.1 488.0,415.9C496.0,413.8 506.2,410.9 510.7,409.6C515.2,408.2 526.4,405.9 535.7,404.5C544.9,403.1 556.1,401.2 560.5,400.3C573.1,397.7 654.3,397.7 668.5,400.4C686.2,403.7 707.3,408.7 714.2,411.3C717.8,412.7 724.4,414.8 728.7,416.0C733.0,417.2 740.8,420.1 746.0,422.5C751.2,424.8 758.0,427.5 761.0,428.4C767.3,430.2 799.3,446.1 812.0,453.7C816.7,456.5 823.5,460.4 827.1,462.4C830.7,464.3 835.9,467.9 838.6,470.3C859.9,489.1 871.7,493.5 879.7,485.9C884.5,481.3 904.8,466.5 914.1,460.8C917.9,458.4 924.5,454.3 928.8,451.6C966.4,427.6 1034.6,404.3 1083.0,399.0C1088.2,398.5 1097.0,397.5 1102.5,396.9C1115.7,395.4 1168.2,396.4 1185.3,398.4C1228.5,403.7 1278.1,419.0 1316.3,438.8C1323.9,442.8 1330.7,446.0 1331.4,446.0C1332.1,446.0 1336.3,448.3 1340.6,451.1C1345.0,453.9 1352.4,458.8 1357.3,461.9C1393.4,485.1 1433.7,522.4 1456.7,554.0C1459.3,557.6 1463.5,563.0 1466.0,566.0C1470.3,571.3 1472.7,575.1 1483.6,594.0C1490.7,606.3 1498.9,622.3 1500.5,627.1C1501.4,629.4 1503.7,634.5 1505.7,638.4C1510.2,647.2 1510.7,653.7 1507.2,657.2C1505.0,659.4 1504.2,659.5 1485.2,659.8C1455.2,660.3 1458.0,662.0 1436.5,629.6C1428.1,616.9 1419.1,604.0 1416.4,600.9C1413.7,597.8 1409.3,592.6 1406.7,589.4C1396.0,576.6 1369.0,548.4 1361.4,542.1C1356.9,538.5 1349.5,532.1 1344.9,527.9C1332.5,516.6 1291.1,489.0 1268.0,476.6C1262.8,473.7 1257.3,470.7 1255.9,469.7C1254.5,468.8 1250.2,466.9 1246.4,465.6C1242.6,464.3 1237.6,462.3 1235.4,461.2C1227.3,457.1 1206.3,449.2 1191.0,444.5C1182.5,441.9 1174.7,439.4 1173.7,438.8C1172.7,438.3 1166.9,437.3 1160.7,436.5C1154.5,435.7 1144.1,434.2 1137.5,433.1C1101.2,426.9 1078.2,427.5 1038.0,435.6C1016.2,440.0 995.0,446.0 984.5,450.7C980.1,452.6 972.5,455.9 967.5,458.0C953.1,464.0 923.1,481.9 906.3,494.4C887.1,508.7 887.0,510.3 904.9,530.3C917.8,544.8 935.2,566.7 938.7,572.9C940.2,575.4 945.6,584.7 950.9,593.5C956.1,602.3 962.5,614.2 965.1,620.0C967.6,625.8 971.4,634.0 973.4,638.2C982.4,657.3 977.2,661.4 945.5,660.1C926.5,659.3 925.2,658.8 919.0,649.1C890.0,604.4 851.5,559.0 842.5,559.0C834.8,559.0 819.6,579.5 799.5,617.0C796.2,623.3 792.7,629.6 791.8,631.0C790.9,632.4 789.5,636.2 788.5,639.5C787.6,642.8 785.6,649.0 784.0,653.2C779.2,665.6 772.0,693.3 770.3,705.3C768.6,718.2 768.2,781.3 769.8,789.0C774.9,812.8 776.0,818.4 776.6,824.0C777.5,833.3 780.3,845.0 784.3,856.0C786.2,861.2 788.3,868.0 789.0,871.0C791.4,881.5 817.0,934.1 825.2,945.5C826.8,947.7 831.6,954.9 835.9,961.5C850.1,983.3 882.6,1022.1 891.7,1028.1C899.7,1033.4 908.8,1026.3 921.7,1004.5C923.4,1001.7 927.5,995.0 931.0,989.5C937.7,978.7 948.9,957.0 951.0,950.6C951.7,948.4 953.8,943.4 955.6,939.3C960.7,928.3 968.7,898.5 970.7,883.5C973.1,865.6 973.0,826.8 970.5,816.0C965.4,793.6 968.7,790.0 992.5,791.2C1004.4,791.8 1007.2,793.4 1012.6,802.3C1015.2,806.7 1018.8,810.9 1022.8,814.1C1027.4,817.8 1029.2,820.0 1030.1,823.1C1032.1,829.6 1042.2,835.1 1058.5,838.5C1083.7,843.7 1125.5,835.0 1131.2,823.3C1133.4,818.8 1145.8,812.5 1164.1,806.5C1167.1,805.5 1172.2,803.4 1175.4,801.8C1178.6,800.1 1185.3,797.3 1190.2,795.4C1195.1,793.5 1202.4,790.4 1206.3,788.4C1210.3,786.4 1216.4,783.7 1220.0,782.4C1223.6,781.0 1230.1,778.2 1234.5,776.0C1244.4,771.1 1275.0,758.1 1288.5,753.0C1294.0,751.0 1301.2,748.0 1304.5,746.5C1313.1,742.6 1343.4,732.4 1350.5,731.0C1353.8,730.4 1360.8,728.5 1366.0,726.9C1384.9,721.2 1414.0,719.4 1438.0,722.5C1474.3,727.1 1500.1,745.1 1516.0,777.0C1526.1,797.3 1527.4,804.8 1527.4,843.0C1527.4,881.2 1524.5,898.9 1513.5,928.5C1510.4,936.8 1506.2,948.0 1504.1,953.5C1502.1,959.0 1497.5,968.7 1493.8,975.0C1490.2,981.3 1485.3,989.9 1483.0,994.0C1468.4,1019.5 1435.6,1061.3 1418.6,1076.0C1415.8,1078.4 1409.0,1084.7 1403.5,1090.0C1392.9,1100.1 1366.8,1120.1 1353.5,1128.4C1349.1,1131.1 1342.8,1135.0 1339.5,1137.0C1328.2,1144.0 1301.5,1156.8 1285.5,1163.0C1276.7,1166.4 1266.1,1170.6 1262.0,1172.2C1257.9,1173.9 1251.8,1175.9 1248.5,1176.7C1245.2,1177.5 1237.8,1179.3 1232.0,1180.7C1206.6,1186.9 1204.8,1187.2 1166.0,1191.2C1147.0,1193.1 1098.3,1191.2 1071.5,1187.5C1037.7,1182.7 974.1,1162.3 954.4,1149.8C952.2,1148.4 946.6,1145.3 941.9,1143.0C931.4,1137.8 916.7,1128.9 908.7,1122.9C905.3,1120.4 899.1,1116.1 895.0,1113.3C890.8,1110.5 886.8,1107.4 886.0,1106.5C882.7,1102.5 876.7,1099.0 873.1,1099.0C867.5,1099.0 867.3,1099.1 844.0,1118.4C830.0,1129.9 769.9,1163.1 757.0,1166.5C753.8,1167.3 747.7,1169.6 743.4,1171.6C730.1,1177.7 696.2,1186.0 674.7,1188.5C667.4,1189.4 655.4,1191.0 648.0,1192.1C632.1,1194.5 603.6,1195.3 579.5,1194.0ZM687.0,1161.0C689.5,1160.5 696.1,1159.4 701.6,1158.5C730.5,1154.0 776.5,1135.7 804.2,1117.8C848.6,1089.1 853.3,1084.4 848.0,1073.6C846.8,1071.0 845.0,1068.5 844.0,1068.0C842.0,1066.9 825.6,1048.5 820.0,1041.0C818.1,1038.4 813.1,1031.9 809.0,1026.6C785.4,995.8 760.7,946.5 749.5,907.5C742.7,884.1 740.8,876.0 739.9,867.7C739.4,862.7 738.3,853.6 737.5,847.5C733.4,817.9 733.2,775.5 737.0,743.5C740.2,715.7 740.4,714.6 745.4,696.2C759.4,644.5 781.2,598.2 809.2,560.8C826.6,537.4 826.2,536.1 794.4,514.0C787.7,509.3 778.5,502.8 773.9,499.6C760.8,490.1 711.2,464.0 696.0,458.6C691.9,457.1 687.1,455.1 685.4,454.1C680.2,451.0 645.6,440.5 630.8,437.5C619.9,435.3 574.1,431.0 561.5,431.0C510.3,431.1 459.6,445.8 415.0,473.4C384.5,492.4 381.2,494.9 345.6,526.9C330.3,540.7 312.0,562.5 297.0,585.0C293.5,590.2 288.5,597.6 286.0,601.5C257.7,643.8 240.0,709.8 244.0,758.3C247.3,798.2 251.2,831.9 253.3,839.5C257.5,854.2 265.7,878.3 268.5,884.0C270.3,887.6 273.8,895.2 276.3,901.0C281.5,912.9 292.7,933.7 301.9,948.5C305.3,954.0 309.6,960.9 311.3,963.7C330.2,994.7 378.5,1046.3 416.0,1075.4C422.9,1080.7 431.0,1087.0 434.0,1089.3C437.0,1091.7 444.0,1096.3 449.5,1099.5C455.0,1102.7 463.8,1108.0 469.0,1111.3C501.6,1132.0 557.0,1152.8 593.7,1158.1C623.6,1162.4 671.9,1163.9 687.0,1161.0ZM1233.8,1154.2C1267.0,1147.4 1283.1,1141.7 1310.2,1127.4C1321.0,1121.7 1330.3,1117.0 1330.7,1117.0C1333.2,1117.0 1363.9,1095.1 1377.6,1083.5C1411.3,1055.3 1437.8,1024.2 1462.0,984.6C1475.9,961.8 1480.9,943.7 1483.0,908.7C1484.7,881.3 1482.8,865.3 1475.1,841.5C1472.9,834.9 1470.9,826.8 1470.5,823.5C1468.6,806.5 1452.5,785.0 1430.7,770.2C1417.7,761.3 1416.3,760.7 1400.1,757.0C1379.4,752.2 1362.0,753.1 1336.5,760.2C1325.8,763.2 1270.6,784.6 1260.9,789.6C1258.2,790.9 1253.2,793.1 1249.8,794.4C1246.3,795.7 1239.9,798.4 1235.5,800.3C1231.1,802.2 1221.9,806.2 1215.0,809.0C1195.6,817.1 1193.5,818.4 1190.8,823.2C1188.0,828.4 1177.6,833.9 1156.5,841.5C1149.3,844.1 1142.4,846.8 1141.0,847.5C1135.2,850.4 1110.0,858.8 1104.0,859.8C1080.2,863.8 1065.5,863.5 1045.5,858.5C1019.4,852.0 1011.3,856.7 1002.2,883.5C994.8,905.2 990.2,917.3 983.5,932.5C979.8,940.8 975.5,950.9 973.8,955.0C965.7,975.7 940.3,1019.6 925.1,1039.5C915.2,1052.4 915.7,1053.3 942.9,1074.4C949.1,1079.2 958.8,1086.0 964.4,1089.5C969.9,1093.0 978.5,1098.5 983.5,1101.6C992.7,1107.5 1016.7,1120.5 1023.0,1122.9C1024.9,1123.7 1031.4,1126.5 1037.4,1129.2C1047.7,1133.9 1066.1,1140.4 1091.0,1148.4C1101.8,1151.8 1107.8,1152.9 1134.0,1156.5C1150.4,1158.8 1150.8,1158.8 1183.0,1158.5C1213.5,1158.3 1213.5,1158.3 1233.8,1154.2Z"/></symbol>
       <symbol id="rama" viewBox="0 0 60 100">
         <path d="M30 96C30 70 28 40 32 8"/>
         <path d="M30 78c-10-2-16-8-18-16 9 0 15 5 18 12"/>

diff --git a/404.html b/404.html
@@ -16,7 +16,7 @@
 <body>
   <main class="error404">
     <div>
-      <svg class="monograma" viewBox="0 0 214 130" aria-hidden="true"><path d="M109 33A52 52 0 1 0 109 97"/><path d="M184.6 30.2A52 52 0 1 0 197.5 72.2C199.5 58 181 53 166 62S139 76 127 63"/></svg>
+      <svg class="monograma" viewBox="205 391 1327 808" aria-hidden="true"><path fill-rule="evenodd" d="M579.5,1194.0C570.7,1193.5 560.4,1192.6 556.5,1192.0C552.6,1191.5 543.2,1190.1 535.5,1189.0C527.8,1187.9 519.0,1186.5 516.0,1185.9C494.6,1181.7 445.9,1163.2 422.5,1150.4C390.0,1132.7 371.6,1120.3 350.5,1102.1C326.1,1081.1 328.0,1083.0 301.7,1053.0C289.4,1038.9 267.2,1006.6 260.6,993.0C258.3,988.3 253.2,978.6 249.3,971.5C245.4,964.4 241.7,956.5 241.0,954.0C240.3,951.6 238.1,946.1 235.9,941.8C233.8,937.5 230.5,928.5 228.6,921.8C226.8,915.0 224.1,905.5 222.7,900.5C220.5,892.6 216.7,874.5 212.4,851.5C210.4,840.5 209.1,800.0 210.0,775.0C211.5,733.6 220.0,691.1 234.0,655.0C236.7,648.1 239.2,641.1 239.6,639.5C242.4,628.3 272.9,576.1 287.4,557.9C290.8,553.7 296.1,546.9 299.3,542.7C314.8,522.6 362.4,479.9 384.0,466.7C387.6,464.5 394.3,460.1 399.0,457.0C412.9,447.7 443.5,431.5 453.6,428.2C456.8,427.1 462.6,424.8 466.5,423.1C470.4,421.3 480.0,418.1 488.0,415.9C496.0,413.8 506.2,410.9 510.7,409.6C515.2,408.2 526.4,405.9 535.7,404.5C544.9,403.1 556.1,401.2 560.5,400.3C573.1,397.7 654.3,397.7 668.5,400.4C686.2,403.7 707.3,408.7 714.2,411.3C717.8,412.7 724.4,414.8 728.7,416.0C733.0,417.2 740.8,420.1 746.0,422.5C751.2,424.8 758.0,427.5 761.0,428.4C767.3,430.2 799.3,446.1 812.0,453.7C816.7,456.5 823.5,460.4 827.1,462.4C830.7,464.3 835.9,467.9 838.6,470.3C859.9,489.1 871.7,493.5 879.7,485.9C884.5,481.3 904.8,466.5 914.1,460.8C917.9,458.4 924.5,454.3 928.8,451.6C966.4,427.6 1034.6,404.3 1083.0,399.0C1088.2,398.5 1097.0,397.5 1102.5,396.9C1115.7,395.4 1168.2,396.4 1185.3,398.4C1228.5,403.7 1278.1,419.0 1316.3,438.8C1323.9,442.8 1330.7,446.0 1331.4,446.0C1332.1,446.0 1336.3,448.3 1340.6,451.1C1345.0,453.9 1352.4,458.8 1357.3,461.9C1393.4,485.1 1433.7,522.4 1456.7,554.0C1459.3,557.6 1463.5,563.0 1466.0,566.0C1470.3,571.3 1472.7,575.1 1483.6,594.0C1490.7,606.3 1498.9,622.3 1500.5,627.1C1501.4,629.4 1503.7,634.5 1505.7,638.4C1510.2,647.2 1510.7,653.7 1507.2,657.2C1505.0,659.4 1504.2,659.5 1485.2,659.8C1455.2,660.3 1458.0,662.0 1436.5,629.6C1428.1,616.9 1419.1,604.0 1416.4,600.9C1413.7,597.8 1409.3,592.6 1406.7,589.4C1396.0,576.6 1369.0,548.4 1361.4,542.1C1356.9,538.5 1349.5,532.1 1344.9,527.9C1332.5,516.6 1291.1,489.0 1268.0,476.6C1262.8,473.7 1257.3,470.7 1255.9,469.7C1254.5,468.8 1250.2,466.9 1246.4,465.6C1242.6,464.3 1237.6,462.3 1235.4,461.2C1227.3,457.1 1206.3,449.2 1191.0,444.5C1182.5,441.9 1174.7,439.4 1173.7,438.8C1172.7,438.3 1166.9,437.3 1160.7,436.5C1154.5,435.7 1144.1,434.2 1137.5,433.1C1101.2,426.9 1078.2,427.5 1038.0,435.6C1016.2,440.0 995.0,446.0 984.5,450.7C980.1,452.6 972.5,455.9 967.5,458.0C953.1,464.0 923.1,481.9 906.3,494.4C887.1,508.7 887.0,510.3 904.9,530.3C917.8,544.8 935.2,566.7 938.7,572.9C940.2,575.4 945.6,584.7 950.9,593.5C956.1,602.3 962.5,614.2 965.1,620.0C967.6,625.8 971.4,634.0 973.4,638.2C982.4,657.3 977.2,661.4 945.5,660.1C926.5,659.3 925.2,658.8 919.0,649.1C890.0,604.4 851.5,559.0 842.5,559.0C834.8,559.0 819.6,579.5 799.5,617.0C796.2,623.3 792.7,629.6 791.8,631.0C790.9,632.4 789.5,636.2 788.5,639.5C787.6,642.8 785.6,649.0 784.0,653.2C779.2,665.6 772.0,693.3 770.3,705.3C768.6,718.2 768.2,781.3 769.8,789.0C774.9,812.8 776.0,818.4 776.6,824.0C777.5,833.3 780.3,845.0 784.3,856.0C786.2,861.2 788.3,868.0 789.0,871.0C791.4,881.5 817.0,934.1 825.2,945.5C826.8,947.7 831.6,954.9 835.9,961.5C850.1,983.3 882.6,1022.1 891.7,1028.1C899.7,1033.4 908.8,1026.3 921.7,1004.5C923.4,1001.7 927.5,995.0 931.0,989.5C937.7,978.7 948.9,957.0 951.0,950.6C951.7,948.4 953.8,943.4 955.6,939.3C960.7,928.3 968.7,898.5 970.7,883.5C973.1,865.6 973.0,826.8 970.5,816.0C965.4,793.6 968.7,790.0 992.5,791.2C1004.4,791.8 1007.2,793.4 1012.6,802.3C1015.2,806.7 1018.8,810.9 1022.8,814.1C1027.4,817.8 1029.2,820.0 1030.1,823.1C1032.1,829.6 1042.2,835.1 1058.5,838.5C1083.7,843.7 1125.5,835.0 1131.2,823.3C1133.4,818.8 1145.8,812.5 1164.1,806.5C1167.1,805.5 1172.2,803.4 1175.4,801.8C1178.6,800.1 1185.3,797.3 1190.2,795.4C1195.1,793.5 1202.4,790.4 1206.3,788.4C1210.3,786.4 1216.4,783.7 1220.0,782.4C1223.6,781.0 1230.1,778.2 1234.5,776.0C1244.4,771.1 1275.0,758.1 1288.5,753.0C1294.0,751.0 1301.2,748.0 1304.5,746.5C1313.1,742.6 1343.4,732.4 1350.5,731.0C1353.8,730.4 1360.8,728.5 1366.0,726.9C1384.9,721.2 1414.0,719.4 1438.0,722.5C1474.3,727.1 1500.1,745.1 1516.0,777.0C1526.1,797.3 1527.4,804.8 1527.4,843.0C1527.4,881.2 1524.5,898.9 1513.5,928.5C1510.4,936.8 1506.2,948.0 1504.1,953.5C1502.1,959.0 1497.5,968.7 1493.8,975.0C1490.2,981.3 1485.3,989.9 1483.0,994.0C1468.4,1019.5 1435.6,1061.3 1418.6,1076.0C1415.8,1078.4 1409.0,1084.7 1403.5,1090.0C1392.9,1100.1 1366.8,1120.1 1353.5,1128.4C1349.1,1131.1 1342.8,1135.0 1339.5,1137.0C1328.2,1144.0 1301.5,1156.8 1285.5,1163.0C1276.7,1166.4 1266.1,1170.6 1262.0,1172.2C1257.9,1173.9 1251.8,1175.9 1248.5,1176.7C1245.2,1177.5 1237.8,1179.3 1232.0,1180.7C1206.6,1186.9 1204.8,1187.2 1166.0,1191.2C1147.0,1193.1 1098.3,1191.2 1071.5,1187.5C1037.7,1182.7 974.1,1162.3 954.4,1149.8C952.2,1148.4 946.6,1145.3 941.9,1143.0C931.4,1137.8 916.7,1128.9 908.7,1122.9C905.3,1120.4 899.1,1116.1 895.0,1113.3C890.8,1110.5 886.8,1107.4 886.0,1106.5C882.7,1102.5 876.7,1099.0 873.1,1099.0C867.5,1099.0 867.3,1099.1 844.0,1118.4C830.0,1129.9 769.9,1163.1 757.0,1166.5C753.8,1167.3 747.7,1169.6 743.4,1171.6C730.1,1177.7 696.2,1186.0 674.7,1188.5C667.4,1189.4 655.4,1191.0 648.0,1192.1C632.1,1194.5 603.6,1195.3 579.5,1194.0ZM687.0,1161.0C689.5,1160.5 696.1,1159.4 701.6,1158.5C730.5,1154.0 776.5,1135.7 804.2,1117.8C848.6,1089.1 853.3,1084.4 848.0,1073.6C846.8,1071.0 845.0,1068.5 844.0,1068.0C842.0,1066.9 825.6,1048.5 820.0,1041.0C818.1,1038.4 813.1,1031.9 809.0,1026.6C785.4,995.8 760.7,946.5 749.5,907.5C742.7,884.1 740.8,876.0 739.9,867.7C739.4,862.7 738.3,853.6 737.5,847.5C733.4,817.9 733.2,775.5 737.0,743.5C740.2,715.7 740.4,714.6 745.4,696.2C759.4,644.5 781.2,598.2 809.2,560.8C826.6,537.4 826.2,536.1 794.4,514.0C787.7,509.3 778.5,502.8 773.9,499.6C760.8,490.1 711.2,464.0 696.0,458.6C691.9,457.1 687.1,455.1 685.4,454.1C680.2,451.0 645.6,440.5 630.8,437.5C619.9,435.3 574.1,431.0 561.5,431.0C510.3,431.1 459.6,445.8 415.0,473.4C384.5,492.4 381.2,494.9 345.6,526.9C330.3,540.7 312.0,562.5 297.0,585.0C293.5,590.2 288.5,597.6 286.0,601.5C257.7,643.8 240.0,709.8 244.0,758.3C247.3,798.2 251.2,831.9 253.3,839.5C257.5,854.2 265.7,878.3 268.5,884.0C270.3,887.6 273.8,895.2 276.3,901.0C281.5,912.9 292.7,933.7 301.9,948.5C305.3,954.0 309.6,960.9 311.3,963.7C330.2,994.7 378.5,1046.3 416.0,1075.4C422.9,1080.7 431.0,1087.0 434.0,1089.3C437.0,1091.7 444.0,1096.3 449.5,1099.5C455.0,1102.7 463.8,1108.0 469.0,1111.3C501.6,1132.0 557.0,1152.8 593.7,1158.1C623.6,1162.4 671.9,1163.9 687.0,1161.0ZM1233.8,1154.2C1267.0,1147.4 1283.1,1141.7 1310.2,1127.4C1321.0,1121.7 1330.3,1117.0 1330.7,1117.0C1333.2,1117.0 1363.9,1095.1 1377.6,1083.5C1411.3,1055.3 1437.8,1024.2 1462.0,984.6C1475.9,961.8 1480.9,943.7 1483.0,908.7C1484.7,881.3 1482.8,865.3 1475.1,841.5C1472.9,834.9 1470.9,826.8 1470.5,823.5C1468.6,806.5 1452.5,785.0 1430.7,770.2C1417.7,761.3 1416.3,760.7 1400.1,757.0C1379.4,752.2 1362.0,753.1 1336.5,760.2C1325.8,763.2 1270.6,784.6 1260.9,789.6C1258.2,790.9 1253.2,793.1 1249.8,794.4C1246.3,795.7 1239.9,798.4 1235.5,800.3C1231.1,802.2 1221.9,806.2 1215.0,809.0C1195.6,817.1 1193.5,818.4 1190.8,823.2C1188.0,828.4 1177.6,833.9 1156.5,841.5C1149.3,844.1 1142.4,846.8 1141.0,847.5C1135.2,850.4 1110.0,858.8 1104.0,859.8C1080.2,863.8 1065.5,863.5 1045.5,858.5C1019.4,852.0 1011.3,856.7 1002.2,883.5C994.8,905.2 990.2,917.3 983.5,932.5C979.8,940.8 975.5,950.9 973.8,955.0C965.7,975.7 940.3,1019.6 925.1,1039.5C915.2,1052.4 915.7,1053.3 942.9,1074.4C949.1,1079.2 958.8,1086.0 964.4,1089.5C969.9,1093.0 978.5,1098.5 983.5,1101.6C992.7,1107.5 1016.7,1120.5 1023.0,1122.9C1024.9,1123.7 1031.4,1126.5 1037.4,1129.2C1047.7,1133.9 1066.1,1140.4 1091.0,1148.4C1101.8,1151.8 1107.8,1152.9 1134.0,1156.5C1150.4,1158.8 1150.8,1158.8 1183.0,1158.5C1213.5,1158.3 1213.5,1158.3 1233.8,1154.2Z"/></svg>
       <h1>Esta página <em>no existe</em></h1>
       <p>Puede que el enlace esté mal escrito o que la página se haya movido.</p>
       <a class="btn btn--primario" href="/">Volver al inicio</a>

diff --git a/assets/css/estilos.css b/assets/css/estilos.css
@@ -123,7 +123,7 @@ strong { font-weight: 500; color: var(--tinta); }
 .icono-relleno { fill: currentColor; }
 .monograma {
   width: 3.4rem; height: 2.07rem; flex: none;
-  fill: none; stroke: currentColor; stroke-width: 3.4; stroke-linecap: round;
+  fill: currentColor; stroke: none; /* monograma oficial relleno: toma el color del texto */
 }
 
 /* Botones */
@@ -571,7 +571,7 @@ strong { font-weight: 500; color: var(--tinta); }
   left: 50%;
   width: min(120vw, 62rem);
   height: auto;
-  aspect-ratio: 214 / 130;
+  aspect-ratio: 1327 / 808;
   transform: translate(-50%, -50%);
   color: var(--blanco);
   opacity: .05;

diff --git a/README.md b/README.md
@@ -50,7 +50,7 @@ Abrir http://localhost:5173/ — y con `?revision` (http://localhost:5173/?revis
 - [ ] Faltan fotos de **tratamientos faciales y corporales** y del **local** (no hay en Instagram).
 - [ ] **Foto de Cristina** o del local → `assets/img/cristina.jpg` (vertical 4:5). Aparece sola.
 - [x] **Portada**: `assets/img/hero.jpg` es un fotograma (1080 px) del reel de inauguración (instagram.com/reel/DZAj7FksQjK), sin el logo superpuesto. Si Cristina tiene la foto original, mejor aún. Ese reel recorre todo el local: de ahí se pueden sacar fotos del centro.
-- [ ] **Logo**: el monograma CG está redibujado a mano en SVG; si hay archivo original (SVG/AI/PDF), cambiarlo.
+- [x] **Logo**: monograma CG oficial (serigrafía) en `assets/img/logo.svg` (marrón #605044) y `logo-negro.svg`. En las páginas va como `<symbol id="monograma">` y toma el color del texto. Si cambia, sustituir el trazado y ejecutar `herramientas\generar-imagenes.ps1` para rehacer `apple-touch-icon.png` y `og.png`.
 - [ ] Confirmar con Cristina la **lista de servicios** de cada tarjeta y si se publican **tarifas**. Añadidas por lo visto en sus historias destacadas: **Cejas** (diseño y laminado), **Depilación láser** y **masajes** (Ritual Mare Nostrum, dentro de la tarjeta de corporales).
 - [ ] Revisar el **texto "Hola, soy Cristina"**.
 - [ ] Textos legales: **nombre completo, NIF, email y fecha**.
